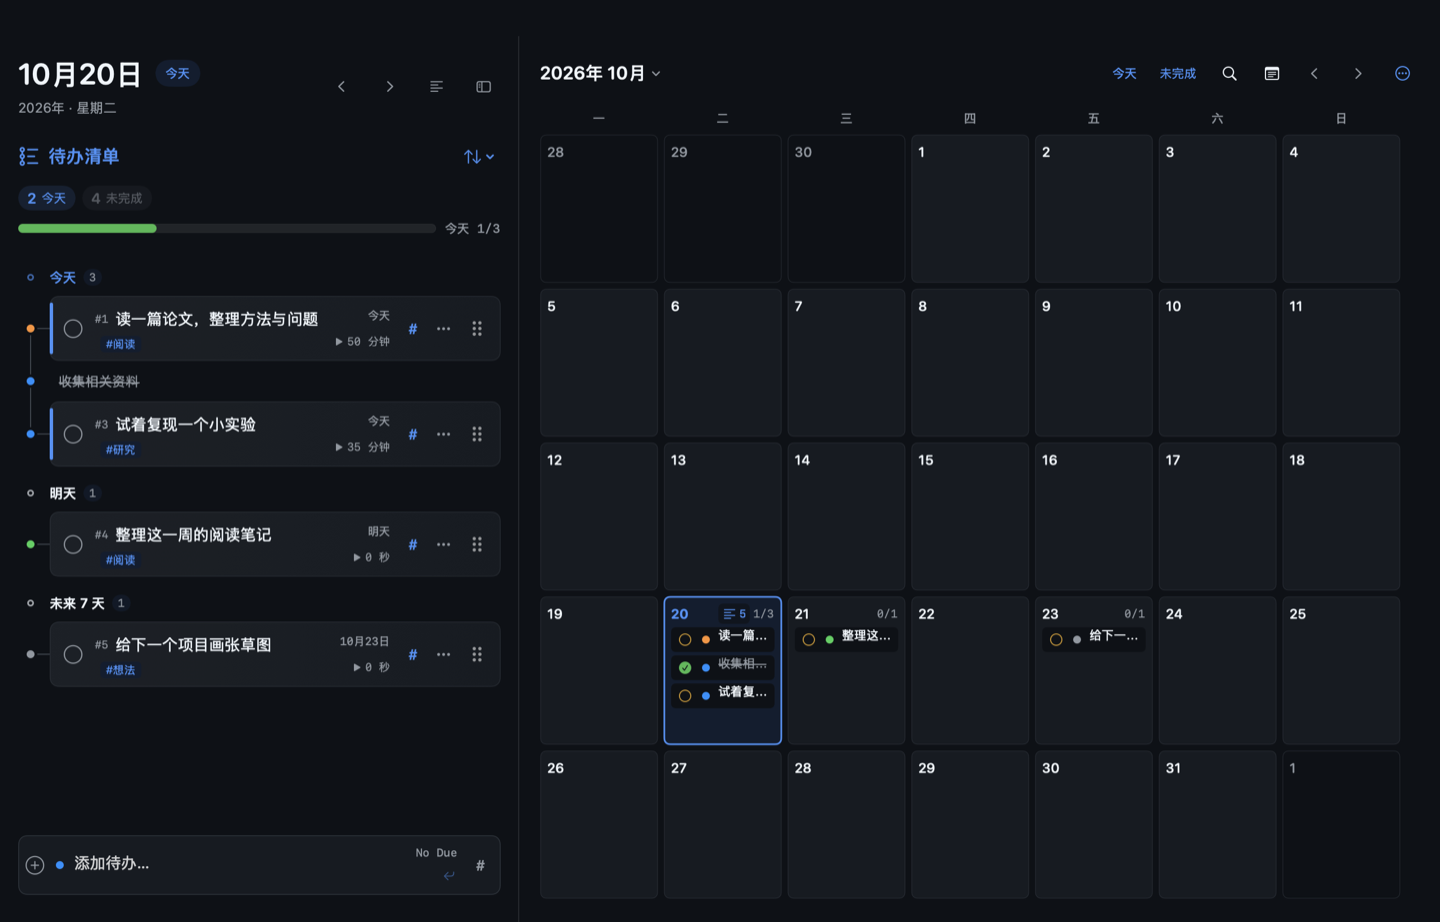
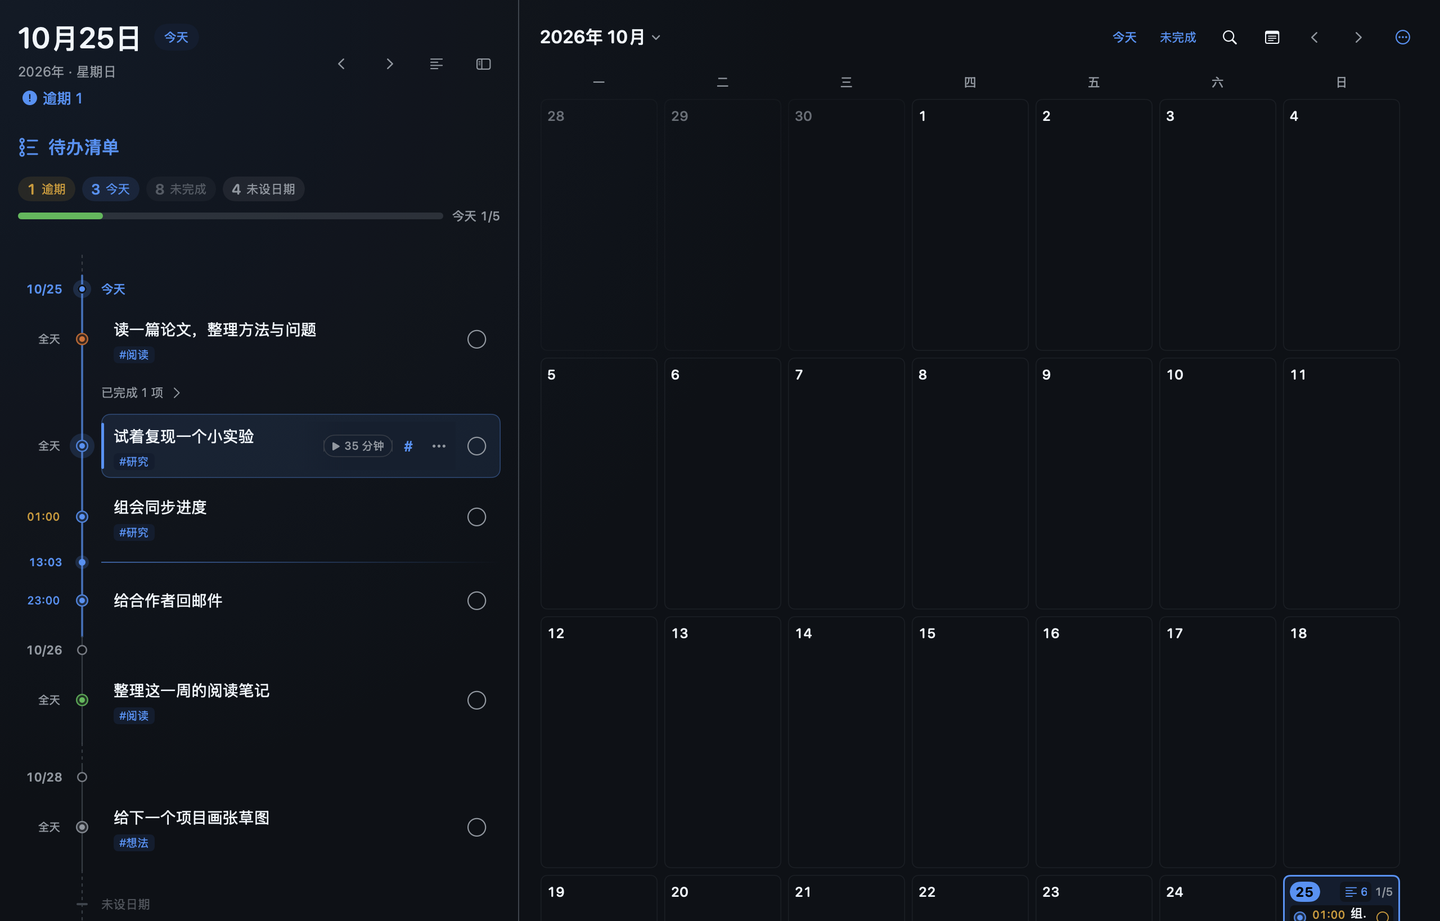
Rewrite README around what Timeline does, with fresh screenshots
The README listed every interaction in long tables. It now leads with
the idea (tasks, focus and notes on one thread), a short feature list,
a compact shortcut table and install steps; developer notes are folded.

Screenshots are regenerated from the current UI (main timeline, focus
picker, journal) by rendering offscreen in Chinese; scripts/screenshots.sh
replaces the old script, which launched the app and opened windows.

diff --git a/Tests/TimelineUITests/DesignPreviewTests.swift b/Tests/TimelineUITests/DesignPreviewTests.swift
@@ -21,9 +21,19 @@ final class DesignPreviewTests: XCTestCase {
         directory = FileManager.default.temporaryDirectory.appendingPathComponent(UUID().uuidString)
         try FileManager.default.createDirectory(at: directory, withIntermediateDirectories: true)
         try Self.sampleJournal().write(to: directory.appendingPathComponent("journal.json"))
+        // README 截图用中文界面渲染。
+        if let language = ProcessInfo.processInfo.environment["TIMELINE_PREVIEW_LANGUAGE"] {
+            previousLanguage = UserDefaults.standard.string(forKey: Prefs.language)
+            UserDefaults.standard.set(language, forKey: Prefs.language)
+        }
     }
 
+    private var previousLanguage: String?
+
     override func tearDown() {
+        if ProcessInfo.processInfo.environment["TIMELINE_PREVIEW_LANGUAGE"] != nil {
+            UserDefaults.standard.set(previousLanguage, forKey: Prefs.language)
+        }
         if let directory { try? FileManager.default.removeItem(at: directory) }
         super.tearDown()
     }

diff --git a/README.md b/README.md
@@ -1,62 +1,58 @@
 # Timeline
 
-Color your thread.
+**Color your thread.** 把待办、专注和笔记穿在同一根时间线上。
 
-Timeline 是 macOS 原生任务管理应用。包含待办时间轴、月历、快速记录、专注计时、笔记与日记。无需账号，数据存储在本机。
+一个常驻在 macOS 后台的原生小工具：一个快捷键叫出来，记一笔、排一下、专注一会儿，再收回去。无需账号，数据只在你的 Mac 上。
 
-## 界面
+![主界面：时间轴与月历](docs/screenshots/main.png)
 
-| 界面 | 内容与操作 |
-| --- | --- |
-| 主界面 | 待办按截止时间排列，月历显示日期分布。上下拖动任务圆点调整同一日期或 No Due 内的顺序；右键圆点选择优先级。将任务拖到日历日期格可修改截止日期；日历里的圆点也可拖回左侧日期分组，拖到 No Due 则清除日期。也可通过截止日期按钮或任务菜单修改。最右侧按钮标记完成，已完成、已放弃事项可折叠。 |
-| 快速记录 | 独立输入面板，支持日志、待办与图片。`@` 关联任务，`#` 添加标签。 |
-| 专注工作台 | 选择任务、设置目标与时长，计时期间记录笔记，结束后填写反馈。专注开始后菜单栏显示倒计时，隐藏工作台后仍可查看，点击计时可重新打开工作台或暂停、结束专注。 |
-| 笔记 / 日记 | 按任务、标签整理笔记，或按日期查看日志与专注记录。双击正文编辑，`⌘Enter` 保存，`Esc` 取消；点击别处保留编辑状态。 |
-| 工作板 | 每个待办或标签对应一页 Markdown，可自由编辑、选择和删除文本，切换预览查看标题、列表、代码与网页链接；⌘↩ 切换编辑 / 预览，内容自动保存。点击标题旁的星标固定到顶部常用栏，一键切换多个工作板；常用按钮仅显示名称，按住横向拖动时高亮并实时让位，松手保存顺序，Esc 取消；拖至栏边缘会自动滚动，也可右键向左 / 向右移动。浮窗与专注面板一样保持置顶，支持阅读 / 会议模板。任务的更多菜单和笔记页提供入口，任务 / 标签删除后内容保留在归档工作板中。 |
-| 内置终端 | 支持标签页与分屏。 |
+## 能做什么
+
+- **时间轴待办**：任务按日期串在一根线上，今天高亮、带「现在」线。上下拖动排序，拖过日期边界就改到那一天；`M` 推到明天。
+- **月历**：一眼看出每天有几件事、专注了多久；把任务拖到某一天即可改期。
+- **随手记录**：`⌃⌥L` 在任何应用里弹出，写一句日志或加一个待办，`@` 关联任务、`#` 打标签，支持粘贴图片（图里的文字也能搜到）。
+- **专注计时**：从小时间轴上挑一个任务开始专注。计时时面板收成贴在屏幕边缘的透明小伙伴，悬停展开；结束后自动生成这一轮的小结。
+- **笔记与日记**：每个任务、每个标签都是一本笔记；日记按时间线展开一天，顶部的节奏条显示什么时候在做什么。
+- **工作板**：每个任务或标签一页 Markdown，所见即所得，支持待办勾选、折叠块、代码复制和 Vim 键位。
+- **内置终端**：`⌃Tab` 随叫随到，支持标签页与分屏。
+
+<p>
+  <img src="docs/screenshots/focus-picker.png" width="49%" alt="从小时间轴选择专注任务">
+  <img src="docs/screenshots/journal.png" width="49%" alt="日记：一天的时间线与专注小结">
+</p>
 
 ## 快捷键
 
-| 默认全局快捷键 | 界面 |
-| --- | --- |
-| `⌃⌥D` | 显示 / 隐藏主界面 |
-| `⌃⌥L` | 快速记录 |
-| `⌃⌥F` | 显示 / 隐藏专注工作台 |
-| `⌃⌥N` | 打开 / 关闭笔记与日记 |
-| `⌃⌥M` | 显示 / 隐藏工作板 |
-| `⌃Tab` | 显示 / 隐藏内置终端 |
+| 全局 | | 选中任务时 | |
+| --- | --- | --- | --- |
+| `⌃⌥D` | 主界面 | `空格` | 完成 |
+| `⌃⌥L` | 快速记录 | `D` | 改截止日期 |
+| `⌃⌥F` | 专注计时 | `M` / `⇧M` | 推到明天 / 提前一天 |
+| `⌃⌥N` | 笔记与日记 | `F` | 开始专注 |
+| `⌃⌥M` | 工作板 | `N` / `T` | 笔记 / 标签 |
+| `⌃Tab` | 终端 | `?` | 全部快捷键 |
 
-`⌃` 为 Control，`⌥` 为 Option，`⌘` 为 Command。全局快捷键可在设置中修改。
+全局快捷键可在设置中修改。所有面板也能从菜单栏图标打开。
 
-点击任务的日期 / 时间入口，或选中任务后按 `D`，可打开统一的截止日期面板。全天任务显示「全天」，指定时间采用 24 小时制，可直接输入小时、分钟或选择常用时间；切换日期会保留时间。创建待办时使用相同的面板。
+## 安装
 
-工作板随任务、日志一起备份和导出，数据格式升级为版本 8。旧工作板条目会按原顺序转换为 Markdown，保留完成状态、说明和链接；转换前自动备份原文件。旧版应用会停止写入新版文件，回退应用前请保留新版备份。
+需要 macOS 13 以上和 Swift 工具链。
 
-工作板中的 `- [ ]` / `- [x]` 会显示为可点击的圆圈，完成时显示绿色圆圈勾选和文字删除线，点击即可切换状态并自动保存 Markdown。任务和标签的笔记页会在标题下显示深色的「看板内容」区域；标签的「按待办」章节也显示对应任务的看板，空白内容不占位。笔记页与浮窗共用同一份内容，勾选实时同步；查找按任务 / 标签缓存索引，Markdown 解析与排版复用现有缓存，章节随滚动按需加载。
-
-工作板底部提供「折叠内容」「论文阅读」「会议议程」三个模板按钮，点击即可插入。「折叠内容」会将选中的文字放进正文，并选中标题供修改。预览和笔记页收起时只显示一行标题，点击展开 Markdown 正文；支持嵌套和 `<details open>` 默认展开。折叠操作不会改写正文或新增笔记。
-
-工作板默认使用编辑与预览合一的 Markdown 编辑器：当前段落显示语法，光标移开后就地渲染，无需快捷键切换。`#` 到 `######` 使用不同颜色并适配深浅外观；连续空行按原文保留。`<details>` 折叠即时响应，不播放高度动画，双击折叠标题可编辑标题。右上角 `</>` 可切到完整源码模式，光标与撤销历史保留。Markdown 链接后的小按钮可直接在 Safari 打开，沿用任务链接的逻辑，优先切换至已有标签页；也可按住 `⌘` 点击链接文字。代码块右侧提供复制按钮，只复制正文，保留缩进和空行，成功后显示勾选反馈。
-
-点击右上角 `Vim` 可开启或关闭 Vim 键位，选择会记住。支持普通、插入、可视模式，以及 `h/j/k/l`、`w/b`、`gg/G`、`dd`、`yy/p`、`u`、`Ctrl-R` 和 `/` 搜索；`i` 进入插入模式，`Esc` 或 `Ctrl+[` 返回普通模式，连续按 Esc 不会收起工作板。`:w` / `:write` 保存到磁盘并进入浏览状态，隐藏光标和当前行语法，点击正文不会进入编辑；按 `i` 或顶部铅笔按钮恢复插入模式。浏览时仍可展开折叠区、打开链接、复制代码和勾选待办。顶部眼睛按钮也可保存并浏览。插入模式使用加粗的常亮光标，普通模式使用高对比度方块光标。源码和实时预览使用同一编辑器，Vim 状态不会因自动保存而重置。
-
-输入停顿后再批量同步，避免逐字刷新其他窗口，中文组词期间不回写正文。切换工作板、关闭或退出前读取最新编辑内容再保存；最近使用的工作板复用编辑器并保留光标。编辑器和 Vim 依赖随应用离线打包，应用构建无需 Node.js；修改编辑器脚本后，在 `Editor` 目录运行 `npm ci && npm run build` 更新打包资源。
-
-```html
-<details>
-<summary>这里填写一行标题</summary>
-
-在这里填写正文、[链接](https://example.com) 或待办：
-
-- [ ] 阅读目标
-
-</details>
+```sh
+bash scripts/install.sh   # 构建并安装到 ~/Applications，自动备份现有数据
 ```
 
-| 界面内快捷键 | 操作 |
-| --- | --- |
-| `⌘Enter` | 提交输入或保存编辑 |
-| `⌘T` | 主界面回到今天；终端新建标签页 |
-| `⌘J` | 打开 / 关闭当天日志 |
-| `⌘Z` / `⇧⌘Z` | 撤销 / 重做 |
-| `⌘,` | 打开设置 |
+数据保存在 `~/Library/Application Support/Timeline`，每天自动备份一份，可在应用内导出或恢复。
+
+<details>
+<summary>开发</summary>
+
+```sh
+swift build
+swift test --filter TimelineCoreTests                               # 核心逻辑测试
+TIMELINE_DESIGN_PREVIEW=/tmp/preview swift test --filter DesignPreviewTests   # 离屏渲染界面预览
+```
+
+工作板编辑器（CodeMirror）已离线打包进应用，构建不需要 Node.js。修改 `Editor/src` 后，在 `Editor` 目录运行 `npm ci && npm run build` 更新打包资源。
+
+</details>
